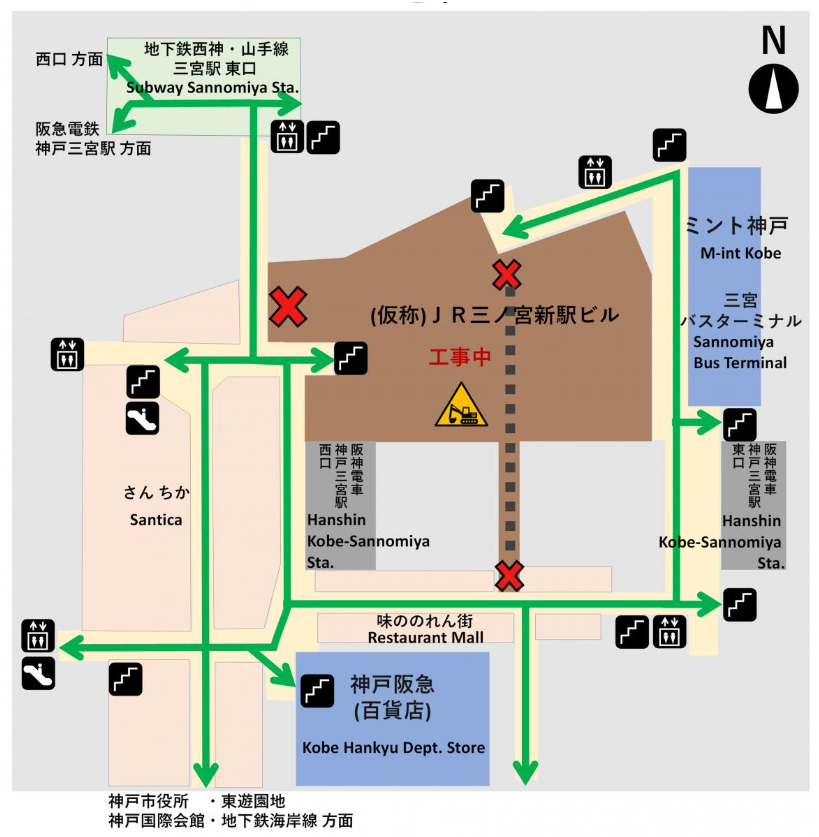
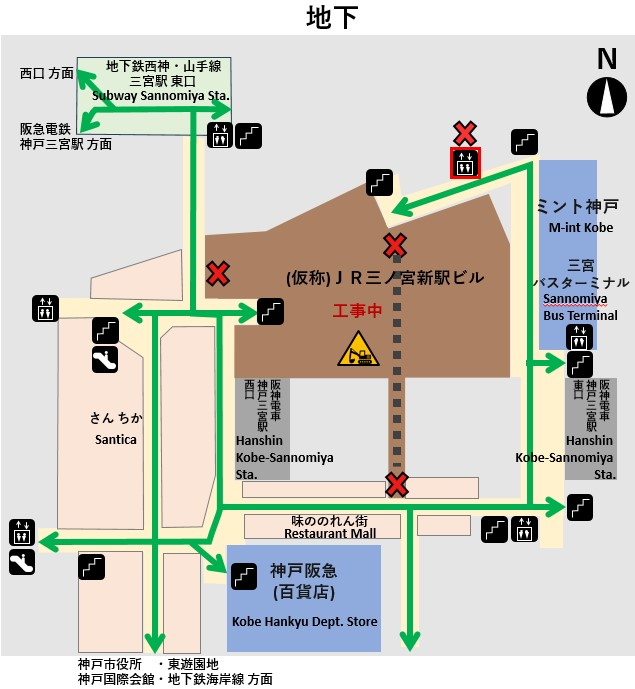
オカモトさん指導を反映、図を差し替え

diff --git a/chikagai-route/index.html b/chikagai-route/index.html
@@ -72,6 +72,15 @@ details:not([open]) .disclosure-button .action::before{content:'開く'}
 .link-callout .q{font-weight:bold;color:#0a4a52;margin:0 0 6px;font-size:15px}
 .link-callout .arrow{color:#0a8a86;margin-right:4px;font-weight:bold}
 .link-callout a{font-weight:bold}
+
+/* 注意喚起の赤字（重要な警告用） */
+.warn,.note.warn{color:#c62828;font-weight:bold}
+
+/* 画像上に位置マーカーを重ねるためのラッパ */
+.image-annotate{position:relative;display:block;line-height:0}
+.image-annotate img{width:100%;height:auto;display:block}
+.image-annotate .marker{position:absolute;border:3px solid #d32f2f;border-radius:8px;box-shadow:0 0 0 2px rgba(255,255,255,.85);pointer-events:none}
+.image-annotate .marker-label{position:absolute;background:#d32f2f;color:white;font-size:12px;font-weight:bold;padding:3px 8px;border-radius:4px;white-space:nowrap;pointer-events:none;line-height:1.3}
 summary:focus-visible,a:focus-visible,button:focus-visible{outline:3px solid #b86d00;outline-offset:3px}
 @media(max-width:650px){
   header{padding:14px 18px;gap:12px}
@@ -107,15 +116,15 @@ summary:focus-visible,a:focus-visible,button:focus-visible{outline:3px solid #b8
   <label>参加者向け ／ 地下街を通る経路（地上を歩くルートとは別のご案内です）</label>
   <h1>研修会場への道案内（地上ルート以外）</h1>
   <h2 style="margin-top:20px">この案内の使い方</h2>
-  <p>この案内では、到着駅または到着地から、<strong>地下街（さんちか）を通り、国際会館で地上へ出て、三宮研修センターに至る道順</strong>を記しています。<br/>工事のため、地下街から三宮研修センターに直接には行けません。</p>
+  <p>この案内では、到着駅または到着地から、<strong>地下街（さんちか）を通り、国際会館で地上へ出て、三宮研修センターに至る道順</strong>を記しています。<br/><span class="warn">工事のため、地下街から三宮研修センターに直接には行けません。</span></p>
   <p class="note">※新神戸駅からポートループバスに乗る場合は、地下街を通らず三宮研修センターまで直結です。</p>
   <p>道順は、後に出てくる「<a href="#station-select">01 到着した駅を選ぶ</a>」で到着した駅別に確認することができます。</p>
-  <aside>
-    <strong>現在、三宮駅周辺では大規模な工事が継続中です。</strong>
+  <aside id="construction-map">
+    <strong class="warn">現在、三宮駅周辺では大規模な工事が継続中です。</strong>
     地下街でも通れない道があり、この案内では迂回路でご案内しています。
     <figure style="margin-top:14px">
-      <img src="images/construction-area.png" alt="三宮駅周辺の工事区域図。JR三ノ宮新駅ビル部分が工事中で、赤い×印の箇所が通行止め。さんちか・ミント神戸・神戸阪急・阪神神戸三宮駅の位置関係と、通行可能な通路が緑の矢印で示されている"/>
-      <figcaption>出典：<a href="https://www.city.kobe.lg.jp/a55197/koujinooshirase_ekisyuuhenn.html">神戸市・駅周辺の工事案内（外部サイト）</a>。最新の規制状況は当日あわせてご確認ください。</figcaption>
+      <img src="images/construction-area.png" alt="三宮駅周辺の地下通路の工事区域図。JR三ノ宮新駅ビル部分が工事中で、赤い×印の箇所が通行止め。さんちか・ミント神戸・神戸阪急・阪神神戸三宮駅の位置関係と、通行可能な通路が緑の矢印で示されている"/>
+      <figcaption>三宮駅周辺の地下通路の工事区域図。出典：<a href="https://www.city.kobe.lg.jp/a55197/koujinooshirase_ekisyuuhenn.html">神戸市・駅周辺の工事案内（外部サイト）</a>。最新の規制状況は当日あわせてご確認ください。</figcaption>
     </figure>
     <figure style="margin-top:14px">
       <img src="images/construction-photo.jpg" alt="三宮駅前の工事現場を上から見た写真。JR三ノ宮新駅ビルの建設のため、複数のクレーン・重機と足場が並び、広い範囲が工事エリアになっている"/>
@@ -134,7 +143,7 @@ summary:focus-visible,a:focus-visible,button:focus-visible{outline:3px solid #b8
 
 <section id="station-select">
   <h2><em>01</em>到着した駅を選ぶ</h2>
-  <p class="note">この案内はすべてエレベーターを使う経路で書いています。エレベーターの近くに階段やエスカレーターがある場合は、同じ経路で進める可能性が高いので参考にしてください（必ず同じ経路とは限りません）。</p>
+  <p class="note"><span class="warn">この案内はすべてエレベーターを使う経路で書いています。</span>エレベーターの近くに階段やエスカレーターがある場合は、同じ経路で進める可能性が高いので参考にしてください（必ず同じ経路とは限りません）。</p>
   <div class="stations" role="radiogroup" aria-label="到着した駅を選ぶ">
     <button aria-pressed="true" role="radio" aria-checked="true" data-station="jr">JR 三ノ宮<small>中央口 → 北側のEV</small></button>
     <button aria-pressed="false" role="radio" aria-checked="false" data-station="hanshin">阪神 神戸三宮<small>西改札 → 左 → さんちか</small></button>
@@ -153,7 +162,11 @@ summary:focus-visible,a:focus-visible,button:focus-visible{outline:3px solid #b8
     <ol class="journey">
       <li class="step">
         <div class="step-head"><span class="num">01</span><h3>ホームからエレベーターで中央口へ</h3></div>
-        <p>3階ホームのエレベーターで1階へ降り、<strong>中央口</strong>の改札を出ます。西口は通りません。</p>
+        <p>3階ホームのエレベーターで1階へ降り、<strong>中央口</strong>の改札を出ます。</p>
+        <div class="link-callout">
+          <p class="q warn">参考：階段・エスカレーター利用の方はJR西口が便利です</p>
+          <p>JR三ノ宮駅の西口（エレベーターはありません）から出ると、阪急と同じ経路でさんちかへ行けます。エレベーターを使わない場合は、こちらの方が近いです。詳しい道順は<a href="#" data-goto-station="hankyu">「阪急 神戸三宮」の案内</a>をご覧ください。</p>
+        </div>
         <details open>
           <summary>図で確認する：JR三ノ宮の構内図</summary>
           <a href="images/jr-map.png" target="_blank" rel="noreferrer"><img src="images/jr-map.png" alt="JR三ノ宮の公式構内図。エレベーターと中央口改札の位置を示す"/></a>
@@ -179,7 +192,7 @@ summary:focus-visible,a:focus-visible,button:focus-visible{outline:3px solid #b8
       <li class="step">
         <div class="step-head"><span class="num">01</span><h3>ホームからエレベーターで西改札（地下1階）へ</h3></div>
         <p>地下2階ホームから、<strong>西口側のエレベーター</strong>で地下1階へ上がります。エレベーターを出てまっすぐ進むと、<strong>駅長室前の西改札</strong>があります。</p>
-        <p class="note">三宮研修センターへは、再開発工事の関係で<strong>西改札（西口）</strong>が便利です。東改札から出ると、地上・地下ともに工事の迂回が必要になります。</p>
+        <p class="note warn">三宮研修センターへは、再開発工事の関係で<strong>西改札（西口）</strong>が便利です。東改札から出ると、地上・地下ともに工事の迂回が必要になります。</p>
         <details open>
           <summary>図で確認する：阪神 神戸三宮の構内図</summary>
           <a href="images/hanshin-kenshu.png" target="_blank" rel="noreferrer"><img src="images/hanshin-kenshu.png" alt="阪神 神戸三宮駅の構内案内図。左側に西改札とサンチカ方面への通路、右側に東改札とミント神戸方面。図中に「三宮研修センターへは、再開発工事の関係上西口が便利です」と赤字の注記あり"/></a>
@@ -272,8 +285,8 @@ summary:focus-visible,a:focus-visible,button:focus-visible{outline:3px solid #b8
       <li class="step">
         <div class="step-head"><span class="num">02</span><h3>三宮駅の改札を出て、ミント神戸2階の南端EVへ</h3></div>
         <p>ホーム中央付近のエレベーターで<strong>3階から2階</strong>へ降り、改札を出て「<strong>阪神（東口）方面</strong>」の出口へ向かいます。</p>
-        <p class="note">改札を出てすぐの「ポートライナー三宮駅 南エレベーター」は<a href="https://www.knt-liner.co.jp/news/8840/">停止中（2026年9月4日〜11月30日）</a>のため使えません。代わりにミント神戸のエレベーターを使います。</p>
-        <p><strong>ミント神戸（三宮バスターミナル）</strong>の2階に入り、南へ進むと奥にエレベーターが3基あります。<strong>一番奥（南端）</strong>のエレベーターを使います。目印は途中のUnited Arrowsなどの店舗です。</p>
+        <p class="note warn">改札を出てすぐの「ポートライナー三宮駅 南エレベーター」は<a href="https://www.knt-liner.co.jp/news/8840/">停止中（2026年9月4日〜11月30日）</a>のため使えません。代わりにミント神戸のエレベーターを使います。</p>
+        <p><strong>ミント神戸（三宮バスターミナル）</strong>の2階に入り（目印は途中のUnited Arrowsなどの店舗）、南へ進むと奥にエレベーターが3基あります。<strong>一番奥（南端）</strong>のエレベーターを使います。</p>
         <details open>
           <summary>図で確認する：ポートライナー 三宮の構内図</summary>
           <a href="images/port-annotated.png" target="_blank" rel="noreferrer"><img src="images/port-annotated.png" alt="ポートライナー 三宮の公式構内図。エレベーターと改札の位置を確認。青丸で囲んだ改札外の出口が、阪神（東口）方面へ進む出口"/></a>
@@ -286,8 +299,8 @@ summary:focus-visible,a:focus-visible,button:focus-visible{outline:3px solid #b8
         <p>ミント神戸南端のエレベーターで<strong>地下1階</strong>へ降ります。</p>
         <details open>
           <summary>図で確認する：ミント神戸周辺の地下と、使うEV・停止中のEV</summary>
-          <a href="images/mint-kobe-ev.png" target="_blank" rel="noreferrer"><img src="images/mint-kobe-ev.png" alt="ミント神戸周辺の地下通路図。ミント神戸北側のエレベーターは赤×で「停止中」、南端の赤ピンが今回使うエレベーター。周辺にはさんちか・味ののれん街・阪神電車 神戸三宮駅 東口も描かれている"/></a>
-          <p class="note">出典：神戸市・駅周辺の工事案内の図に、実際に歩いてくださった方が停止中のエレベーターと使うエレベーターを書き加えたものです。</p>
+          <a href="images/construction-area.png" target="_blank" rel="noreferrer"><img src="images/construction-area.png" alt="三宮駅周辺の地下通路の工事区域図。ミント神戸北側のエレベーターは赤×で通行止め、南側のエレベーターが使える。周辺にはさんちか・味ののれん街・阪神電車 神戸三宮駅も描かれている"/></a>
+          <p class="note">図の右上、ミント神戸北側の階段・EVアイコンが赤×で示されている箇所が停止中です。今回使うのは<strong>ミント神戸南端のEV</strong>（図の右側、阪神 神戸三宮駅 東口の少し上）です。出典：<a href="https://www.city.kobe.lg.jp/a55197/koujinooshirase_ekisyuuhenn.html">神戸市・駅周辺の工事案内（外部サイト）</a>。<a href="#construction-map">ページ冒頭にも同じ図</a>を掲載しています。</p>
         </details>
       </li>
 
@@ -323,28 +336,34 @@ summary:focus-visible,a:focus-visible,button:focus-visible{outline:3px solid #b8
 
   <ol class="journey">
 
-    <li class="step">
-      <div class="step-head"><span class="num">01</span><h3>さんちかを南へ、神戸国際会館の地下入口（A8）へ</h3></div>
-      <p>さんちかのメイン通路を南に進み、突き当たりで左へ折れて、南端の<strong>「A8／至 神戸国際会館・SOL」</strong>方面へ向かいます。</p>
-      <p class="note">研修センターの最寄り出口だったC5は、<a href="https://f-road.co.jp/kenshu/4832">工事のため使えません（三宮研修センターの通行止め案内）</a>。この案内では、A8を経由して神戸国際会館の地下入口へ入る経路でご案内します。</p>
-      <details open>
-        <summary>図で確認する：三宮各駅からさんちかを通ってA8へ</summary>
-        <img src="images/santica-a1-a8.png" alt="三宮各駅地下-地上ルート図。JR・ポートライナー側やJR阪神側からA1出入口へ、A1からA8（神戸国際会館・SOL方面）まで矢印で示されている"/>
-        <p class="note">出典：<a href="https://f-road.co.jp/kenshu/4832">三宮研修センター「2025年10月より地下道工事による通行止めについて」</a>。到着した駅によってA1に出る位置は異なりますが、A1からA8までの道順は共通です。</p>
-      </details>
-      <details>
-        <summary>参考：三宮駅周辺の地下通路 全体図</summary>
-        <img src="images/underground.jpg" alt="神戸市の地下通路図。左に地下鉄三宮とさんちか、右にミント神戸と阪神東口、下に神戸阪急"/>
-        <p class="note">出典：<a href="https://www.city.kobe.lg.jp/a55197/koujinooshirase_ekisyuuhenn.html">神戸市・駅周辺の工事案内（外部サイト）</a></p>
-      </details>
-    </li>
+      <li class="step">
+        <div class="step-head"><span class="num">01</span><h3>さんちかを南へ、神戸国際会館の地下入口（A8）へ</h3></div>
+        <p>さんちかのメイン通路を南に進み、突き当たりで左へ折れて、南端の<strong>「A8／至 神戸国際会館・SOL」</strong>方面へ向かいます。</p>
+        <p class="note">この案内では、A8を経由して神戸国際会館の地下入口へ入る経路でご案内します。</p>
+        <details style="margin-top:10px">
+          <summary style="cursor:pointer;font-size:14px;color:#52677a">なぜ神戸国際会館経由なのか（C5出口が使えないため）</summary>
+          <p class="note warn" style="margin-top:8px">研修センターの最寄り出口だったC5は、<a href="https://f-road.co.jp/kenshu/4832">工事のため使えません（三宮研修センターの通行止め案内）</a>。</p>
+        </details>
+        <details open>
+          <summary>図で確認する：三宮各駅からさんちかを通ってA8へ</summary>
+          <img src="images/santica-a1-a8.png" alt="三宮各駅地下-地上ルート図。JR・ポートライナー側やJR阪神側からA1出入口へ、A1からA8（神戸国際会館・SOL方面）まで矢印で示されている。図中右上の「JR・ポートライナー（空港）」からA1へ向かう経路には赤い×印と「通れません」の文字が入っている"/>
+          <p class="note"><span class="warn">【重要】この図の一部の経路は現在通れません。</span>図中右上の「JR・ポートライナー（空港）」から直接A1へ向かう経路（赤×印・「通れません」の記載）は工事のため通行止めです。<strong>JR</strong>は「地下鉄連絡通路」を通ってA1へ、<strong>ポートライナー</strong>はミント神戸から阪神 神戸三宮駅と同じ経路になります。詳しくは上の「01 到着した駅を選ぶ」で該当駅の案内をご覧ください。</p>
+          <p class="note">出典：<a href="https://f-road.co.jp/kenshu/4832">三宮研修センター「2025年10月より地下道工事による通行止めについて」</a>。到着した駅によってA1に出る位置は異なりますが、A1からA8までの道順は共通です。</p>
+        </details>
+        <p class="note" style="margin-top:14px">地下通路の通行止め箇所は<a href="#construction-map">ページ冒頭の工事区域図</a>で確認できます。</p>
+      </li>
 
     <li class="step">
       <div class="step-head"><span class="num">02</span><h3>神戸国際会館から1階へ</h3></div>
       <p>A8を出た先に神戸国際会館の地下入口があります。館内には案内表示があり、<strong>西エレベーター</strong>（スターバックスの左側）か、エスカレーターでも1階へ上がれます。</p>
       <details open>
         <summary>図で確認する：神戸国際会館 地下1階フロア図</summary>
-        <a href="images/sol-b1.png" target="_blank" rel="noreferrer"><img src="images/sol-b1.png" alt="神戸国際会館SOLの地下1階。左のSANTICA接続通路の上側に西エレベーター"/></a>
+        <a href="images/sol-b1.png" target="_blank" rel="noreferrer" class="image-annotate">
+          <img src="images/sol-b1.png" alt="神戸国際会館SOLの地下1階。左のSANTICA接続通路の上側、KOBE HANKYU 西と書かれた場所に、赤枠で示された西エレベーター"/>
+          <span class="marker" style="left:20%;top:42%;width:8%;height:11%"></span>
+          <span class="marker-label" style="left:20%;top:28%">西EV<br/>（これを使う）</span>
+        </a>
+        <p class="note">図中の<strong>赤枠</strong>が「西エレベーター」の位置です（「KOBE HANKYU 西」の下）。サンクンガーデン付近にも別のEVがありますが、この案内では西EVを使います。</p>
         <p class="note">出典：<a href="https://www.kobe-sol.jp/shop/floor">神戸国際会館SOL・B1Fフロアガイド（外部サイト）</a></p>
       </details>
     </li>
@@ -354,8 +373,7 @@ summary:focus-visible,a:focus-visible,button:focus-visible{outline:3px solid #b8
       <p>1階に出たら、フラワーロード沿いに南（市役所・海側）へ。国際会館前交差点を南へ渡り、道路の東側を進みます。市バス「市役所前」を通過し、ポートループ「市役所・東遊園地前 PL32」が会場正面の目印です。</p>
       <details open>
         <summary>図で確認する：地上の位置図</summary>
-        <svg viewBox="0 0 700 510" role="img" aria-label="北が上。神戸国際会館から交差点を南へ渡り、フラワーロード東側を研修センターまで歩く"><rect width="700" height="510" fill="#f4f8fa"></rect><path d="M290 20V490" stroke="#d4dfe6" stroke-width="86"></path><path d="M20 170H680" stroke="#d4dfe6" stroke-width="50"></path><g fill="#e0eded" stroke="#91b6bd"><rect x="365" y="35" width="300" height="105" rx="8"></rect><rect x="40" y="280" width="190" height="95" rx="8"></rect><rect x="400" y="385" width="265" height="85" rx="8"></rect></g><g fill="#19314a" font-size="20" font-family="inherit"><text x="42" y="45">↑ 北・駅側</text><text x="410" y="75">神戸国際会館</text><text x="410" y="108">西EV → 1階西側へ</text><text x="390" y="180">国際会館前交差点</text><text x="64" y="325">神戸市役所</text><text x="410" y="418">三宮研修センター</text><text x="415" y="450" font-size="17">カサベラFRⅡビル</text><text x="405" y="275" font-size="18">市バス「市役所前」</text><text x="405" y="334" font-size="18">ポートループ PL32</text><text x="45" y="430" font-size="17">フラワーロード</text><text x="45" y="465">南・海側 ↓</text></g><path d="M389 113H357V424H395" fill="none" stroke="#00858e" stroke-width="9" stroke-linejoin="round"></path><path d="m380 410 18 14-18 14" fill="none" stroke="#00858e" stroke-width="6"></path><circle cx="358" cy="265" r="8" fill="#e39c37"></circle><circle cx="358" cy="327" r="8" fill="#e39c37"></circle><text x="355" y="225" fill="#007480" font-size="17">横断歩道を渡る</text></svg>
-        <p class="note">位置関係を簡略化した図（縮尺なし）。バス停間の距離は表していません。</p>
+        <svg viewBox="0 0 700 510" role="img" aria-label="北が上。神戸国際会館から交差点を南へ渡り、フラワーロード東側を研修センターまで歩く"><rect width="700" height="510" fill="#f4f8fa"></rect><path d="M290 20V490" stroke="#d4dfe6" stroke-width="86"></path><path d="M20 170H680" stroke="#d4dfe6" stroke-width="50"></path><g fill="#e0eded" stroke="#91b6bd"><rect x="365" y="35" width="300" height="105" rx="8"></rect><rect x="40" y="280" width="190" height="95" rx="8"></rect><rect x="400" y="385" width="265" height="85" rx="8"></rect></g><g fill="#19314a" font-size="20" font-family="inherit"><text x="42" y="45">↑ 北・駅側</text><text x="410" y="75">神戸国際会館</text><text x="410" y="108">西EV → 1階西側へ</text><text x="390" y="180">国際会館前交差点</text><text x="64" y="325">神戸市役所</text><text x="410" y="418">三宮研修センター</text><text x="415" y="450" font-size="17">カサベラFRⅡビル</text><text x="405" y="275" font-size="18">市バス「市役所前」</text><text x="405" y="373" font-size="18">ポートループ PL32</text><text x="45" y="430" font-size="17">フラワーロード</text><text x="45" y="465">南・海側 ↓</text></g><path d="M389 113H357V424H395" fill="none" stroke="#00858e" stroke-width="9" stroke-linejoin="round"></path><path d="m380 410 18 14-18 14" fill="none" stroke="#00858e" stroke-width="6"></path><circle cx="358" cy="265" r="8" fill="#e39c37"></circle><circle cx="358" cy="366" r="8" fill="#e39c37"></circle><text x="355" y="225" fill="#007480" font-size="17">横断歩道を渡る</text></svg>
       </details>
     </li>
 
@@ -519,6 +537,18 @@ summary:focus-visible,a:focus-visible,button:focus-visible{outline:3px solid #b8
   stButtons.forEach(b => b.addEventListener('click', () => showStation(b.dataset.station)));
   const initialStation = document.querySelector('.stations button[aria-pressed="true"][data-station]');
   if (initialStation) showStation(initialStation.dataset.station);
+
+  // 駅切替を促す本文中リンク（例：「阪急の案内をご覧ください」）
+  document.querySelectorAll('a[data-goto-station]').forEach(a => {
+    a.addEventListener('click', (e) => {
+      e.preventDefault();
+      const station = a.dataset.gotoStation;
+      showStation(station);
+      // 該当パネルまでスクロール
+      const target = document.querySelector('.station-panel[data-panel="' + station + '"]');
+      if (target) target.scrollIntoView({ behavior: 'smooth', block: 'start' });
+    });
+  });
 
   // トップタブ（参加者／大阪）の切替
   const tabButtons = document.querySelectorAll('nav [role="tab"][data-tab]');
